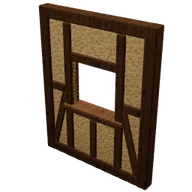
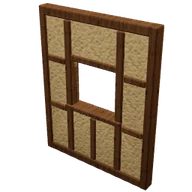
Avance: el entramado con madera fina y parda, dos riostras y pies cada medio metro (paños pequeños, como la referencia), barro más claro; imágenes v5 rehechas
Claude-Session: https://claude.ai/code/session_011Xgxtn3fBaakBVDAStPbHK

Changed region(s): [[0.1875, 0.0, 0.875, 1.0], [0.4375, 0.5312, 0.5312, 0.5625]]

diff --git a/src/mundo/modelos.js b/src/mundo/modelos.js
@@ -188,15 +188,15 @@ function muroZarzo(opc = {}) {
 // como las casas de entramado de la referencia (diseno/referencia/aspecto_del_juego.jpg): paños pequeños y la madera
 // a la vista, asomando del relleno. Con puerta (jambas y dintel) y con ventana (pies, peana, dintel y alféizar).
 // Sin cal aún, el relleno es barro (el ocre claro de la referencia), no encalado.
-const BARRO_CLARO = 0xc4a77a;
+const BARRO_CLARO = 0xd4ba8c;
 function muroEntramado(opc = {}) {
   const L = loteMuro();
-  const S = MODULO / 2, H = ALTURA, c = 'maderaOsc', F = 0.2;   // F: grueso de la madera (el relleno, 0,13)
+  const S = MODULO / 2, H = ALTURA, c = 'madera', F = 0.2;   // F: grueso de la madera (el relleno, 0,13); madera parda, como en la referencia
   const vigaV = (x, y0, y1, w = 0.16) => { if (y1 - y0 > 0.04) L.add(cajaR(w, y1 - y0, F, 0.025), c, x, (y0 + y1) / 2, 0); };
   const vigaH = (x0, x1, y, h = 0.14) => { if (x1 - x0 > 0.04) L.add(cajaR(x1 - x0, h, F - 0.01, 0.025), c, (x0 + x1) / 2, y, 0); };
   const tornapunta = (x0, y0, x1, y1) => {   // de esquina a esquina de un paño, metida en sus vigas
     const dx = x1 - x0, dy = y1 - y0;
-    L.add(cajaR(0.13, Math.hypot(dx, dy), F - 0.02, 0.02), c, (x0 + x1) / 2, (y0 + y1) / 2, 0, { z: -Math.atan2(dx, dy) });
+    L.add(cajaR(0.09, Math.hypot(dx, dy), F - 0.02, 0.02), c, (x0 + x1) / 2, (y0 + y1) / 2, 0, { z: -Math.atan2(dx, dy) });
   };
   // el relleno de una pieza, con el hueco recortado (como el barro del zarzo)
   const f = new THREE.Shape(), B = 0.012, m = 0.04;
@@ -212,39 +212,37 @@ function muroEntramado(opc = {}) {
   g.translate(0, 0, -(0.13 - 2 * B) / 2);
   L.add(g, BARRO_CLARO, 0, 0, 0, null, { tex: 'piedra', rayas: RAYAS_BARRO });
 
-  const yD = 0.18, yC = H - 0.18, yR = 1.25, ip = S - 0.18;   // arriba del durmiente, debajo de la carrera, la riostra; cara de dentro de los postes
-  for (const s of [-1, 1]) vigaV(s * (S - 0.09), 0, H, 0.18);   // postes de esquina
-  vigaH(-S, S, H - 0.09, 0.18);                                   // carrera
+  // madera fina (como en la referencia): postes de 12 cm, durmiente y carrera de 14, riostras de 10; dos riostras (a 0,9 y
+  // 1,7 m) y pies cada medio metro, así que los paños quedan pequeños (unos 0,4 × 0,7 m)
+  const yD = 0.14, yC = H - 0.14, ip = S - 0.12, R = [0.9, 1.7];
+  for (const s of [-1, 1]) vigaV(s * (S - 0.06), 0, H, 0.12);   // postes de esquina
+  vigaH(-S, S, H - 0.07, 0.14);                                   // carrera
+  const riostras = (x0, x1) => { for (const y of R) vigaH(x0, x1, y, 0.1); };
   if (opc.puerta) {
-    const a = P.anchoPuerta / 2, ap = P.altoPuerta, j = a + 0.08;
+    const a = P.anchoPuerta / 2, ap = P.altoPuerta, j = a + 0.06;
     for (const s of [-1, 1]) {
-      vigaH(s < 0 ? -S : a, s < 0 ? -a : S, 0.09, 0.18);           // durmiente a los lados, nunca cruzando el hueco
-      vigaV(s * j, 0, ap + 0.16);                                  // jambas
-      vigaH(s < 0 ? -ip : j + 0.08, s < 0 ? -j - 0.08 : ip, yR);  // riostra del lado
+      vigaH(s < 0 ? -S : a, s < 0 ? -a : S, 0.07, 0.14);           // durmiente a los lados, nunca cruzando el hueco
+      vigaV(s * j, 0, ap + 0.12, 0.12);                            // jambas
+      if (s < 0) riostras(-ip, -j - 0.06); else riostras(j + 0.06, ip);
     }
-    vigaH(-j - 0.08, j + 0.08, ap + 0.08, 0.16);                   // dintel
-    vigaV(0, ap + 0.16, yC, 0.14);                                 // pie corto encima
+    vigaH(-j - 0.06, j + 0.06, ap + 0.06, 0.12);                   // dintel
+    vigaV(0, ap + 0.12, yC, 0.1);                                  // pie corto encima
   } else if (opc.ventana) {
-    const a = P.anchoVentana / 2, bv = P.bajoVentana, av = P.altoVentana, j = a + 0.07;
-    vigaH(-S, S, 0.09, 0.18);
+    const a = P.anchoVentana / 2, bv = P.bajoVentana, av = P.altoVentana, j = a + 0.06;
+    vigaH(-S, S, 0.07, 0.14);
     for (const s of [-1, 1]) {
-      vigaV(s * j, yD, yC, 0.14);                                  // pies de la ventana
-      vigaH(s < 0 ? -ip : j + 0.07, s < 0 ? -j - 0.07 : ip, yR);  // riostra del lado
-      const xi = s * ip, xo = s * (j + 0.07);
-      tornapunta(xi, yD, xo, yR - 0.07);                           // tornapunta del paño bajo del lado
+      vigaV(s * j, yD, yC, 0.12);                                  // pies de la ventana
+      if (s < 0) riostras(-ip, -j - 0.06); else riostras(j + 0.06, ip);
     }
-    vigaH(-j, j, bv - 0.07);                                       // peana
-    vigaH(-j, j, av + 0.07);                                       // dintel
-    vigaV(0, yD, bv - 0.14, 0.12);                                 // pie corto bajo la ventana
-    L.add(cajaR(P.anchoVentana + 0.3, 0.06, 0.28, 0.015), 'madera', 0, bv - 0.02, 0);   // alféizar
+    vigaH(-j, j, bv - 0.05, 0.1);                                  // peana
+    vigaH(-j, j, av + 0.05, 0.1);                                  // dintel
+    vigaV(0, yD, bv - 0.1, 0.1);                                   // pie corto bajo la ventana
+    L.add(cajaR(P.anchoVentana + 0.24, 0.05, 0.26, 0.015), 'madera', 0, bv - 0.02, 0);   // alféizar
   } else {
-    vigaH(-S, S, 0.09, 0.18);                                      // durmiente
-    vigaV(0, yD, yC, 0.16);                                        // pie derecho central
-    for (const s of [-1, 1]) {
-      vigaH(s < 0 ? -ip : 0.08, s < 0 ? -0.08 : ip, yR);           // riostras
-      vigaV(s * (ip + 0.08) / 2, yR + 0.07, yC, 0.12);             // pies cortos de los paños altos
-      tornapunta(s * ip, yD, s * 0.08, yR - 0.07);                 // tornapuntas de los paños bajos, en V
-    }
+    vigaH(-S, S, 0.07, 0.14);                                      // durmiente
+    for (const x of [-0.5, 0, 0.5]) vigaV(x, yD, yC, 0.1);          // pies cada medio metro
+    riostras(-ip, ip);
+    for (const s of [-1, 1]) tornapunta(s * ip, yD, s * 0.55, R[0] - 0.05);   // tornapuntas de los paños bajos de fuera
   }
   return deLote(L);
 }
